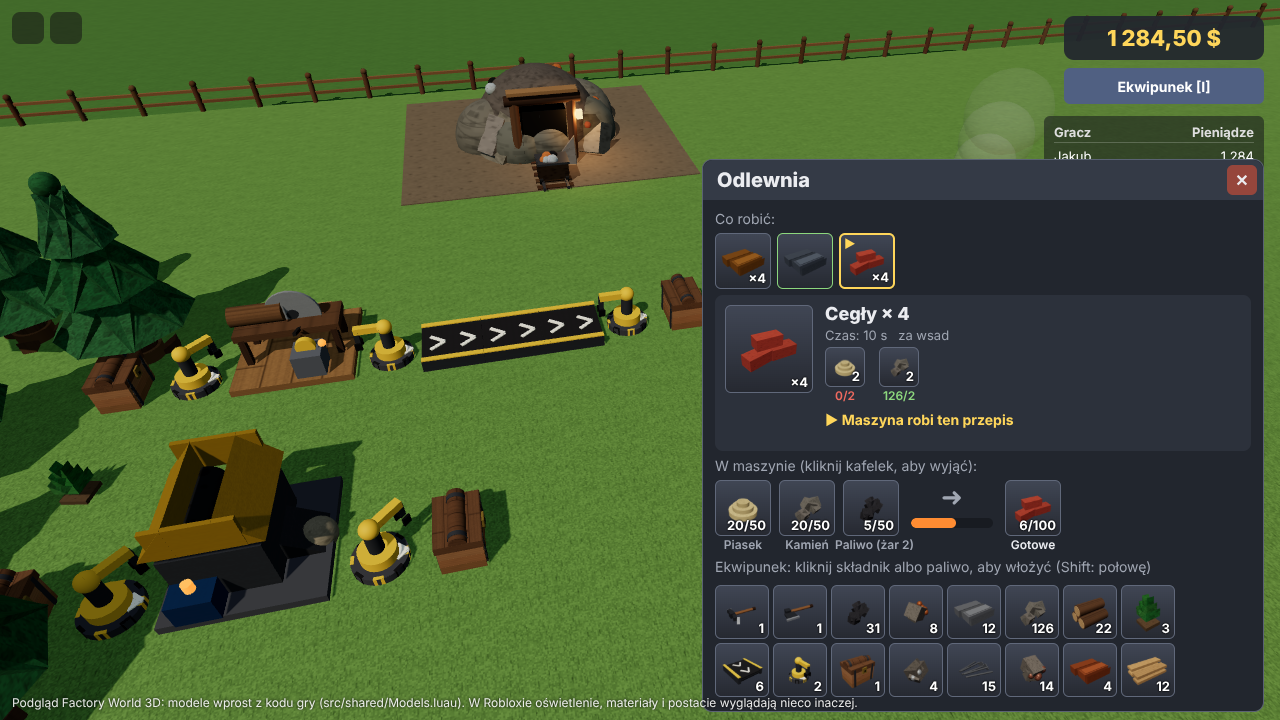
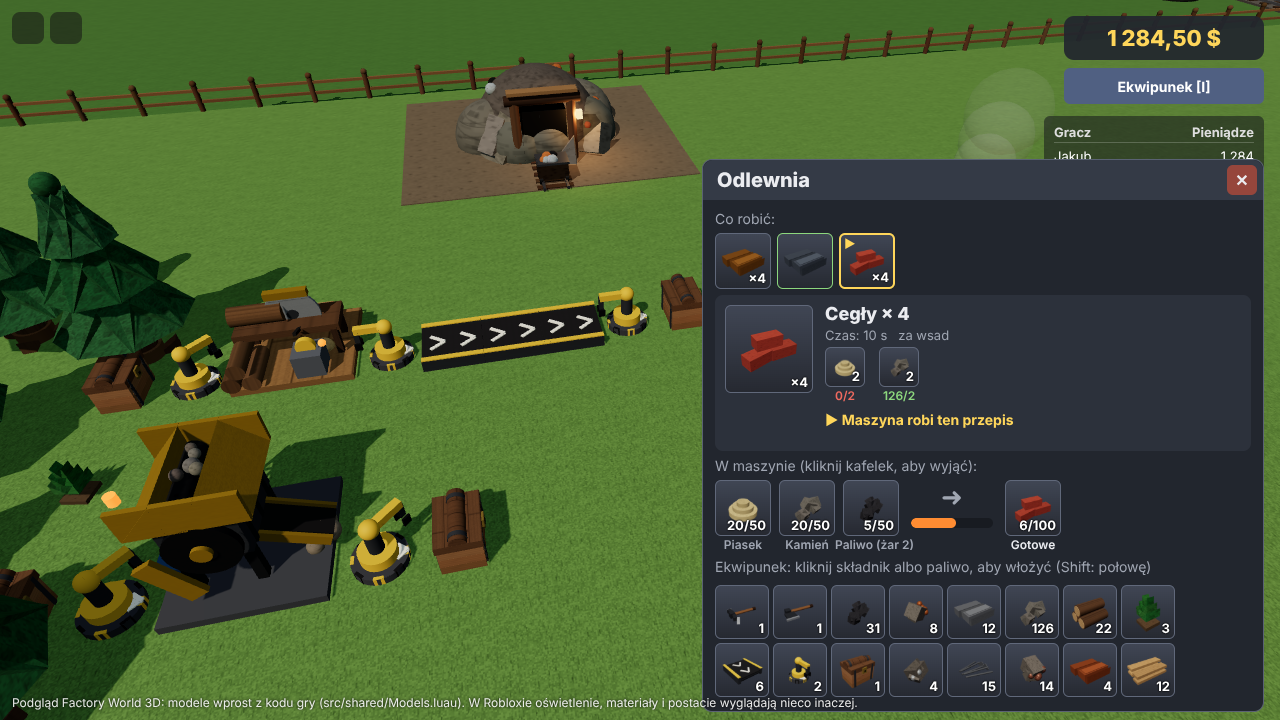
Rebuild the crusher, stonemason and generator models in more detail; add to the sawmill and foundry
Claude-Session: https://claude.ai/code/session_015q7rLHNJ66CFDjTGWXE1aJ

Changed region(s): [[0.0625, 0.4583, 0.3125, 0.8861], [0.1875, 0.3972, 0.25, 0.4278], [0.9688, 0.0, 1.0, 0.0306]]

diff --git a/tools/preview/scene.js b/tools/preview/scene.js
@@ -227,6 +227,25 @@ function views() {
     labels.push({ at: [46, 0, 9], text: "Fontanna", cls: "tag" });
     out["5-modele"] = { objects, camera: { pos: [8, 22, 52], look: [8, 3, 0], fov: 55 }, shadowRadius: 70, caption, labels };
   }
+  // 17. The machines side by side, close up.
+  {
+    const objects = [{ at: [0, 0, 0], parts: [block([140, 1, 60], [0, -0.5, 0], [116, 158, 78], "Grass")] }];
+    const row = [
+      ["Tartak", "Models.Machine('furniture_sawmill')", -29],
+      ["Kamieniarz", "Models.Machine('furniture_stonemason')", -19.5],
+      ["Kruszarka", "Models.Machine('furniture_crusher')", -10],
+      ["Odlewnia", "Models.Machine('furniture_foundry')", 2.5],
+      ["Generator", "Models.Generator()", 15],
+      ["Skrzynia", "Models.WoodenChest()", 23],
+      ["Podajnik", "Models.Inserter()", 28.5],
+    ];
+    const labels = [];
+    for (const [name, expr, x] of row) {
+      objects.push({ at: [x, 0, 0], yaw: Math.PI - 0.35, parts: lua.call(expr), lit: true });
+      labels.push({ at: [x, 0, 5.5], text: name, cls: "tag" });
+    }
+    out["17-maszyny"] = { objects, camera: { pos: [-1, 15, 33], look: [-1, 3, 0], fov: 60 }, shadowRadius: 70, caption, labels };
+  }
   // 6. A little factory on the build grid, worked out by the game's own rules (Logistics.Run).
   {
     const p = plot(1, { furnaces: ["lit", "cold"], cut: [5] });

diff --git a/README.md b/README.md
@@ -14,6 +14,7 @@ Branch `roblox-3d` ma własną historię i zawiera tylko wersję Roblox: nie dzi
 ![Moje działki](docs/screenshots/14-dzialki.png)
 ![Działki z biomami](docs/screenshots/15-biomy.png)
 ![Spółka](docs/screenshots/16-spolka.png)
+![Maszyny](docs/screenshots/17-maszyny.png)
 ![Modele](docs/screenshots/5-modele.png)
 
 Zrzuty pochodzą z podglądu w przeglądarce (`tools/preview/`), który rysuje dokładnie te modele, które buduje serwer
@@ -27,7 +28,7 @@ Zrzuty pochodzą z podglądu w przeglądarce (`tools/preview/`), który rysuje d
 | 2. Logistyka | Działka 232 × 232 study z siatką budowania na całości (56 × 56 pól po 4 study; wszystko na działce stoi na jej polach), tryb budowania (stawianie, obracanie, rozbiórka, linie siatki widoczne tylko przy budowaniu), taśmociągi (2 pasy, zakręty, dołączanie z boku, przeciąganie skręca taśmę), podajniki, drewniane skrzynie (8 miejsc po 100 szt.), piec na siatce karmiony podajnikami, drzewa jak w 2D (ścięte znika, 30% na sadzonkę, sadzonka rośnie 10 min), nowe przepisy na stole (taśmociąg ×4, podajnik, skrzynia), gęsty las między działkami i wokół placu (tylko ozdoba, nie da się go ściąć ani w nim budować; ścieżki do bram wolne) | gotowe |
 | 3. Przetwórstwo | Maszyny na siatce (2 × 2 pola, odlewnia 3 × 3) z przepisami i czasami z gry 2D: tartak (deski, belki, pellet), warsztat kamieniarski (bloki), kruszarka (piasek, kruszywo rud: 3 z 2 rud, w piecu topi się szybciej), odlewnia na węgiel, drewno albo pellet (brąz, stal, cegły); maszyna robi wsad za wsadem także pod nieobecność gracza, podajniki ją karmią i opróżniają. Badania (jedno naraz, koszt od razu, czas jak w 2D): Gospodarka leśna, Kamieniarstwo, Kruszenie, Metalurgia odblokowują maszyny na stole i u handlarza. Od etapu 5 kruszarka potrzebuje prądu | gotowe |
 | 4. Handel | Rynek graczy na wszystkich serwerach (**M**): oferty sprzedaży i zamówienia jak w 2D (towar albo pieniądze czekają w ofercie, inni biorą część albo całość, zarobek przychodzi sam także pod nieobecność; do 20 ofert każdego rodzaju, do 10 000 szt. i 1 000 000 $ za sztukę, rzeczy niezbadane można tylko sprzedawać). Wydarzenia rynkowe u handlarza co 6 godzin (Boom na stal, Boom budowlany, Sroga zima, Gorączka miedzi, Moda na brąz, Gorączka złota, Zalew kamienia, Wyprzedaż maszyn), takie same na każdym serwerze, oraz codzienne wahania cen skupu do 10%; handlarz zawsze płaci najwyżej 90% swojej ceny sprzedaży | gotowe |
-| 5. Świat | **Prąd (gotowe):** generator parowy 2 × 2 (100 kW, węgiel 200 s, drewno 50 s, pellet 40 s przy pełnej mocy, do 50 sztuk; paliwo wkłada się w jego oknie albo podajnikiem), słupy energetyczne (zasilają pola 5 × 5 wokół siebie, łączą się kablem ze słupami do 7 pól dalej w jedną sieć), kruszarka pobiera 40 kW; przy za małej mocy wszystkie maszyny sieci pracują wolniej, bez prądu stoją i pamiętają postęp wsadu. Generator (stół: 10 kamieni, 8 sztabek żelaza, 4 sztabki miedzi) i słupy (×2: 2 drewna, 1 sztabka miedzi). Liczone na żądanie także pod nieobecność gracza. **Pociągi (gotowe):** każda działka ma stację kolejową (3 × 3 pola przy wschodnim płocie, nie da się jej rozebrać) z peronem i torem za płotem, który z obu stron znika w tunelu. Towar ładuje się na stację ręcznie albo podajnikami (do 10 000 szt. jednego towaru), podajniki też ją rozładowują. Wysyłka do innego gracza (szukanie po nazwie, na dowolnym serwerze): opłata 1 $ + 1 ¢ za sztukę na 100 km, czas 5 s na 100 km (najmniej 10 s), jak w 2D; towar czeka na stacji odbiorcy, także gdy go nie ma w grze. Trasy (do 5): pociąg co 1, 5, 15 albo 60 minut z wybranymi towarami albo wszystkim (do 2000 szt.), póki właściciel jest w grze. Pociąg widać, jak przyjeżdża z tunelu, staje przy peronie i odjeżdża. **Stół warsztatowy** jako przedmiot (u handlarza albo z 20 drewna i 5 gwoździ) do postawienia na działce. **Działki z biomami (gotowe, L):** poza pierwszą działką (Łąka) można kupić po jednej działce Las (60 drzew, kopalnia z dużą ilością węgla), Pustynia (bez drzew; piasek, miedź, cyna, czasem złoto), Góry (8 drzew; żelazo, srebro, węgiel) i Tundra (16 ośnieżonych świerków; cyna, srebro, złoto). Biom wybiera się przy zakupie, a działki kosztują 50 000 $, 500 000 $, 5 000 000 $ i każda następna 1 000 000 000 $. Na serwerze gracz ma jedno miejsce na działkę: w oknie *Moje działki* wybiera, którą tam pokazać, a gra buduje ją w tym samym miejscu z jej ziemią, kopalnią, siatką, piecami i maszynami. Działki, których nie widać, liczą się dalej i po powrocie wszystko jest nadrobione. **Pociągi między własnymi działkami (gotowe):** każda działka ma swoją stację z torem. W oknie stacji na liście „Komu” są najpierw twoje inne działki: pociąg jedzie 20 s i kosztuje tylko 1 $, a towar trafia na stację tamtej działki, także gdy jej nie widać. Trasy działają tak samo (np. ruda z Gór co 5 minut na Łąkę) i ruszają ze stacji działki, na której je dodano; działka, której nie widać, jest przed odjazdem przeliczona do teraz. Pociągi od innych graczy przyjeżdżają na stację Łąki. Odległości pociągów nadal liczą się w wymyślonym świecie 2400 × 1200 km. **Spółki (gotowe, K):** gracze z dowolnych serwerów zakładają spółkę (10 000 $, które trafiają do jej kasy; założyciel dostaje 1000 udziałów) albo dołączają do istniejącej (do 10 wspólników, nazwa unikalna i sprawdzona filtrem Robloxa). Udziały kupuje się po cenie udziału (kasa ÷ udziały, najmniej 1 $) i sprzedaje spółce za 95% tej ceny. Co tydzień spółka ma 3 zlecenia na towar (zawsze takie same dla danej spółki i tygodnia); towar z ekwipunku płaci 160% ceny handlarza do kasy, a oddający dostaje udziały warte tyle, ile dałby handlarz, więc reszta podnosi cenę udziałów wszystkich. Założyciel raz dziennie wypłaca dywidendę (20% kasy według udziałów), może usuwać wspólników (ich udziały są odkupione) i zamyka spółkę, odchodząc jako ostatni. Dywidendy przychodzą same, także po powrocie do gry. Pociągi do wspólników są na liście „Komu” od razu i płacą 70% opłaty za odległość. **Dalej:** lepsze modele | w toku |
+| 5. Świat | **Prąd (gotowe):** generator parowy 2 × 2 (100 kW, węgiel 200 s, drewno 50 s, pellet 40 s przy pełnej mocy, do 50 sztuk; paliwo wkłada się w jego oknie albo podajnikiem), słupy energetyczne (zasilają pola 5 × 5 wokół siebie, łączą się kablem ze słupami do 7 pól dalej w jedną sieć), kruszarka pobiera 40 kW; przy za małej mocy wszystkie maszyny sieci pracują wolniej, bez prądu stoją i pamiętają postęp wsadu. Generator (stół: 10 kamieni, 8 sztabek żelaza, 4 sztabki miedzi) i słupy (×2: 2 drewna, 1 sztabka miedzi). Liczone na żądanie także pod nieobecność gracza. **Pociągi (gotowe):** każda działka ma stację kolejową (3 × 3 pola przy wschodnim płocie, nie da się jej rozebrać) z peronem i torem za płotem, który z obu stron znika w tunelu. Towar ładuje się na stację ręcznie albo podajnikami (do 10 000 szt. jednego towaru), podajniki też ją rozładowują. Wysyłka do innego gracza (szukanie po nazwie, na dowolnym serwerze): opłata 1 $ + 1 ¢ za sztukę na 100 km, czas 5 s na 100 km (najmniej 10 s), jak w 2D; towar czeka na stacji odbiorcy, także gdy go nie ma w grze. Trasy (do 5): pociąg co 1, 5, 15 albo 60 minut z wybranymi towarami albo wszystkim (do 2000 szt.), póki właściciel jest w grze. Pociąg widać, jak przyjeżdża z tunelu, staje przy peronie i odjeżdża. **Stół warsztatowy** jako przedmiot (u handlarza albo z 20 drewna i 5 gwoździ) do postawienia na działce. **Działki z biomami (gotowe, L):** poza pierwszą działką (Łąka) można kupić po jednej działce Las (60 drzew, kopalnia z dużą ilością węgla), Pustynia (bez drzew; piasek, miedź, cyna, czasem złoto), Góry (8 drzew; żelazo, srebro, węgiel) i Tundra (16 ośnieżonych świerków; cyna, srebro, złoto). Biom wybiera się przy zakupie, a działki kosztują 50 000 $, 500 000 $, 5 000 000 $ i każda następna 1 000 000 000 $. Na serwerze gracz ma jedno miejsce na działkę: w oknie *Moje działki* wybiera, którą tam pokazać, a gra buduje ją w tym samym miejscu z jej ziemią, kopalnią, siatką, piecami i maszynami. Działki, których nie widać, liczą się dalej i po powrocie wszystko jest nadrobione. **Pociągi między własnymi działkami (gotowe):** każda działka ma swoją stację z torem. W oknie stacji na liście „Komu” są najpierw twoje inne działki: pociąg jedzie 20 s i kosztuje tylko 1 $, a towar trafia na stację tamtej działki, także gdy jej nie widać. Trasy działają tak samo (np. ruda z Gór co 5 minut na Łąkę) i ruszają ze stacji działki, na której je dodano; działka, której nie widać, jest przed odjazdem przeliczona do teraz. Pociągi od innych graczy przyjeżdżają na stację Łąki. Odległości pociągów nadal liczą się w wymyślonym świecie 2400 × 1200 km. **Spółki (gotowe, K):** gracze z dowolnych serwerów zakładają spółkę (10 000 $, które trafiają do jej kasy; założyciel dostaje 1000 udziałów) albo dołączają do istniejącej (do 10 wspólników, nazwa unikalna i sprawdzona filtrem Robloxa). Udziały kupuje się po cenie udziału (kasa ÷ udziały, najmniej 1 $) i sprzedaje spółce za 95% tej ceny. Co tydzień spółka ma 3 zlecenia na towar (zawsze takie same dla danej spółki i tygodnia); towar z ekwipunku płaci 160% ceny handlarza do kasy, a oddający dostaje udziały warte tyle, ile dałby handlarz, więc reszta podnosi cenę udziałów wszystkich. Założyciel raz dziennie wypłaca dywidendę (20% kasy według udziałów), może usuwać wspólników (ich udziały są odkupione) i zamyka spółkę, odchodząc jako ostatni. Dywidendy przychodzą same, także po powrocie do gry. Pociągi do wspólników są na liście „Komu” od razu i płacą 70% opłaty za odległość. **Lepsze modele (pierwsza tura):** nowa kruszarka (stalowa obudowa na nogach, koła zamachowe, walce w leju, taśma wysypująca kruszywo, drabinka), nowy warsztat kamieniarski (piła tarczowa na wysięgniku nad stołem z płytą, zbiornik wody, paleta bloków) i nowy generator (kocioł z kopułą, manometrem i zaworem, maszyna parowa z kołem zamachowym napędzającym prądnicę), a tartak i odlewnia mają więcej szczegółów; wszystko nadal z części w `Models.luau`, bez wgrywania assetów | w toku |
 
 ## Uruchomienie w Roblox Studio
 
